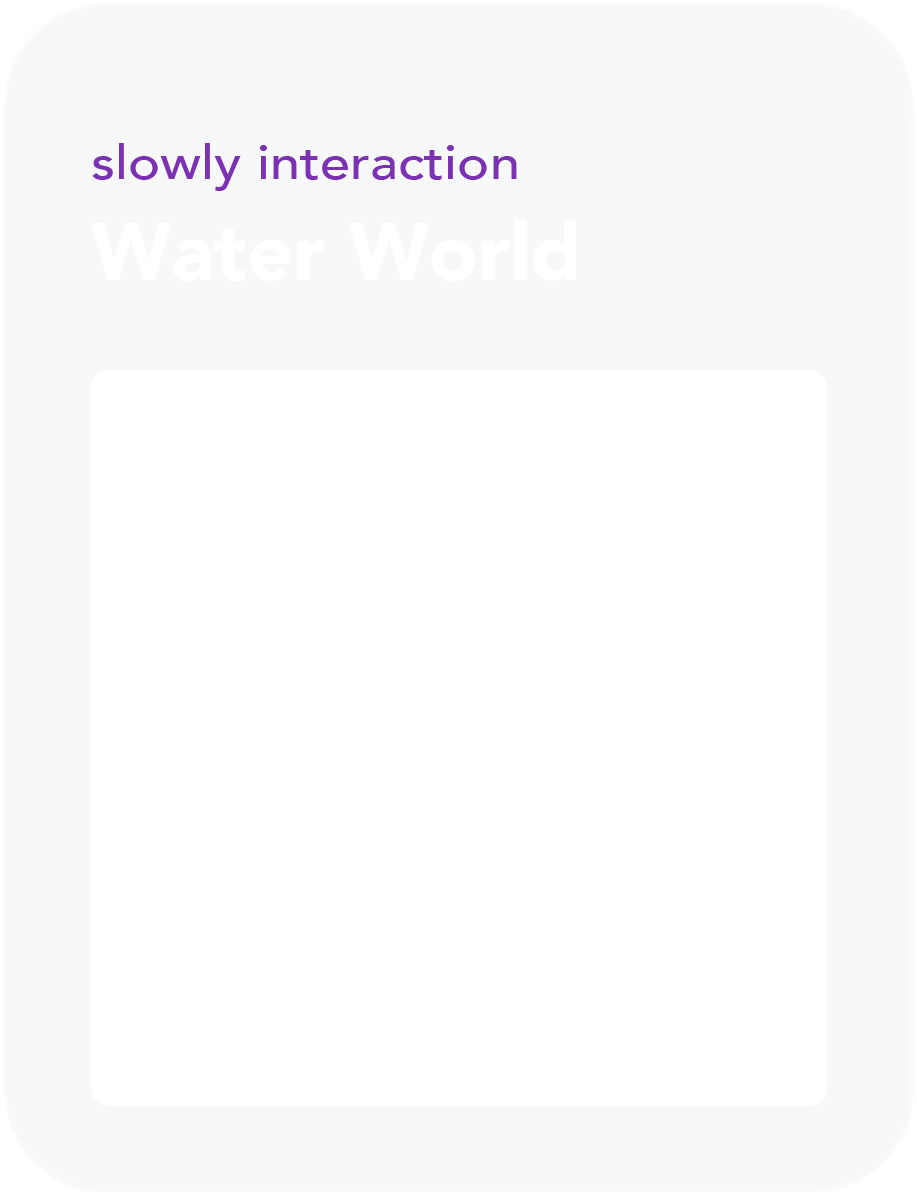
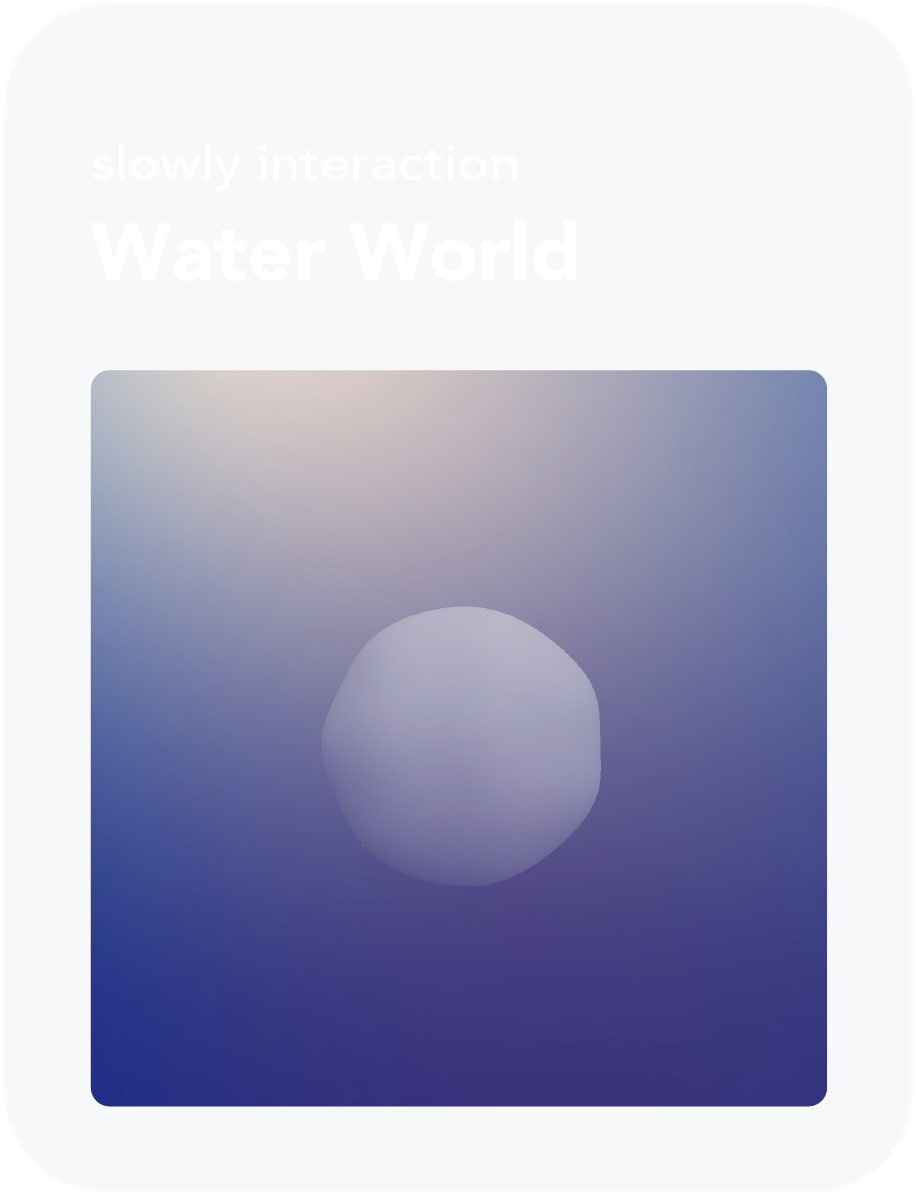
ゴールの画像を差し替え

diff --git a/components/artwork/js/Link.js b/components/artwork/js/Link.js
@@ -2,7 +2,7 @@ import * as THREE from 'three';
 import vertexShader from '../glsl/globalMenu.vert';
 import fragmentShader from '../glsl/globalMenu.frag';
 import { state } from './state';
-import { colors, imageShrinkRate } from './variable';
+import { colors } from './variable';
 import { getTexture } from './textures';
 
 export default class Link {
@@ -40,29 +40,29 @@ export default class Link {
       switch (this.nextPathName) {
         case '/':
           this.texture = getTexture('logo');
-          this.width = 244 * imageShrinkRate;
-          this.height = 171 * imageShrinkRate;
+          this.width = 244 * state.imageShrinkRate;
+          this.height = 171 * state.imageShrinkRate;
           // this.position.x -= this.width / 2; // 幅の半分だけ位置をずらす
           break;
         case 'stage1':
           this.texture = getTexture('menu_water');
-          this.width = 373 * imageShrinkRate;
-          this.height = 85 * imageShrinkRate;
+          this.width = 373 * state.imageShrinkRate;
+          this.height = 85 * state.imageShrinkRate;
           break;
         case 'stage2':
           this.texture = getTexture('menu_storm');
-          this.width = 372 * imageShrinkRate;
-          this.height = 85 * imageShrinkRate;
+          this.width = 372 * state.imageShrinkRate;
+          this.height = 85 * state.imageShrinkRate;
           break;
         case 'stage3':
           this.texture = getTexture('menu_space');
-          this.width = 367 * imageShrinkRate;
-          this.height = 85 * imageShrinkRate;
+          this.width = 367 * state.imageShrinkRate;
+          this.height = 85 * state.imageShrinkRate;
           break;
         case 'about':
           this.texture = getTexture('menu_about');
-          this.width = 178 * imageShrinkRate;
-          this.height = 85 * imageShrinkRate;
+          this.width = 178 * state.imageShrinkRate;
+          this.height = 85 * state.imageShrinkRate;
       }
 
       this.geometry = new THREE.PlaneBufferGeometry(this.width, this.height, 2);
@@ -78,8 +78,8 @@ export default class Link {
       });
     } else if (this.type === 'goal') {
       // サイズは統一
-      this.width = 917 * imageShrinkRate;
-      this.height = 1197 * imageShrinkRate;
+      this.width = 917 * state.imageShrinkRate;
+      this.height = 1197 * state.imageShrinkRate;
       // テクスチャわけ
       switch (this.nextPathName) {
         case '/':
@@ -89,10 +89,10 @@ export default class Link {
           this.texture = getTexture('goal_water');
           break;
         case 'stage2':
-          this.texture = getTexture('goal_water');
+          this.texture = getTexture('goal_storm');
           break;
         case 'stage3':
-          this.texture = getTexture('goal_water');
+          this.texture = getTexture('goal_space');
           break;
       }
       this.geometry = new THREE.PlaneBufferGeometry(this.width, this.height, 2);

diff --git a/components/artwork/js/textures.js b/components/artwork/js/textures.js
@@ -55,11 +55,11 @@ export const initTexture = () => {
     },
     {
       name: 'goal_storm',
-      value: loader.load(require('@/assets/images/panel_goal_water.png')),
+      value: loader.load(require('@/assets/images/panel_goal_storm.png')),
     },
     {
       name: 'goal_space',
-      value: loader.load(require('@/assets/images/panel_goal_water.png')),
+      value: loader.load(require('@/assets/images/panel_goal_space.png')),
     },
     {
       name: 'goal_back',
